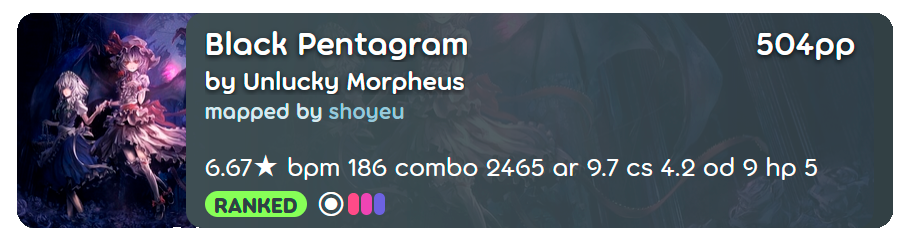
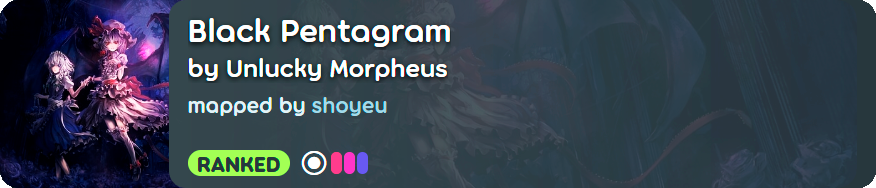
Set typing info animation in to the beatmap card

diff --git a/index.html b/index.html
@@ -36,7 +36,6 @@
     </ul>
 </nav>
 
-<h1 class="typewrite" data-speed="50" data-delay="3000" data-cursor="true" data-texts='[ "7.77★ bpm 200 combo 2680 ar 9.8 cs 4.4 od 9.8 hp 5"]'></h1>
 
 <div class="content flex w-full flex-1 max-w-[100rem] mx-auto px-4">
 
@@ -45,9 +44,16 @@
             Easily pick your next beatmap with<br>More Beatmaps Info</h1>
 
         <div class="w-1/2 flex justify-end items-start">
-            <div class="w-[100%] h-[50%] translate-y-20 ds-bg-red-400">
-                <img class="translate-x-[13%] translate-y-[70%] rotate-13 w-[80%]"
-                     src="src/assets/images/beatmap-card.png" alt="Beatmapset card">
+            <div class="w-[100%] h-[50%] translate-y-20 ds-bg-red-400 relative">
+                <div class="relative inline-block w-[95%] mt-[10%]">
+                    <img class="w-full rotate-13" src="src/assets/images/beatmap-card.png" alt="Beatmapset card">
+
+                    <h1 class="relative text-responsive -translate-y-[95.7%] translate-x-[20.2%] rotate-13 text-white typewrite"
+                        data-speed="30" data-delay="3000" data-cursor="false"
+                        data-texts='["6.67★ bpm 186 combo 2465 ar 9.7 cs 4.2 od 9 hp 5"]'>
+                    </h1>
+                </div>
+
             </div>
         </div>
     </div>

diff --git a/src/styles/css/main.css b/src/styles/css/main.css
@@ -1,1 +1,9 @@
 @import "tailwindcss";
+
+@layer utilities {
+    @media (max-width: 1920px) {
+        .text-responsive {
+            font-size: 0.95vw;
+        }
+    }
+}
